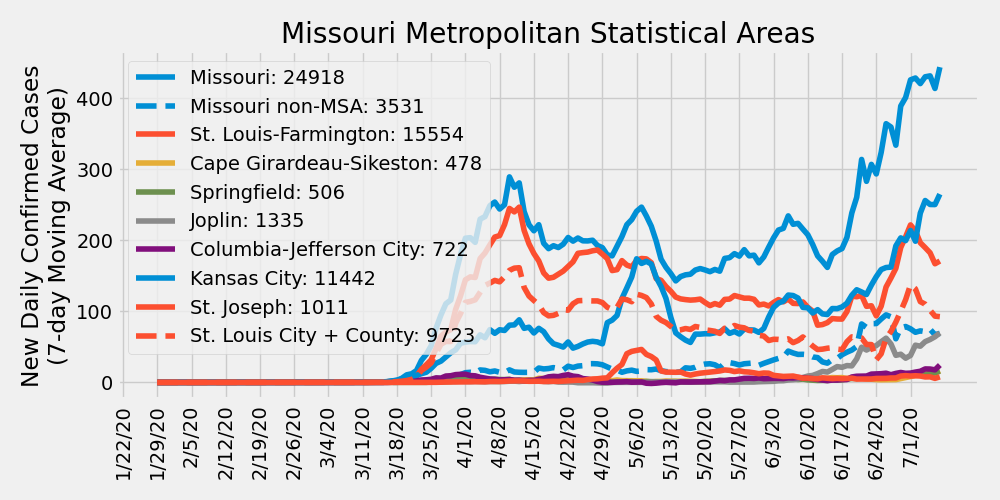
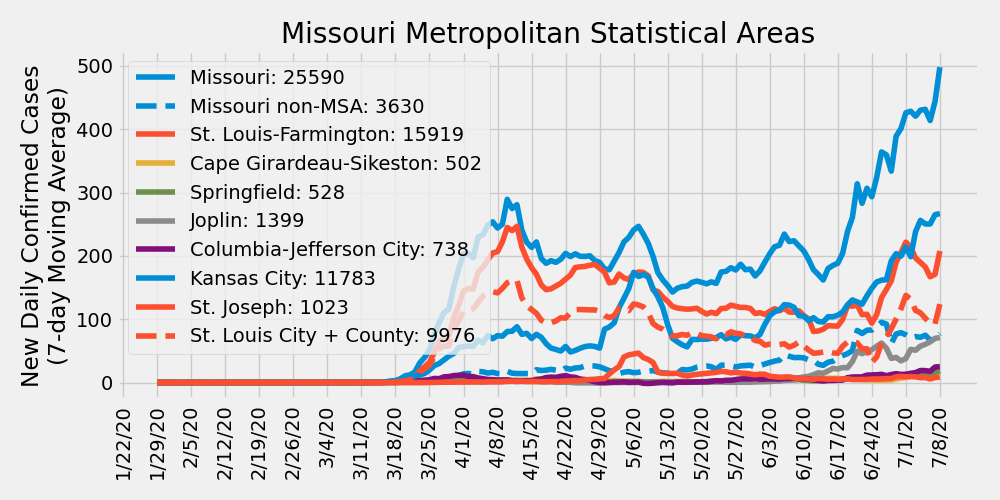
update 7/9/2020

diff --git a/ajvogt-analysis/missouri_analysis.md b/ajvogt-analysis/missouri_analysis.md
@@ -1,6 +1,6 @@
 # COVID-19 Missouri Statistics & Regional Breakdowns
 Author: Adam J. Vogt  
-Updated: 07/08/2020  
+Updated: 07/09/2020  
 Source: [COVID-19 Data Repository by the Center for Systems Science and Engineering (CSSE) at Johns Hopkins University](https://github.com/CSSEGISandData/COVID-19)  
 Source Code: `/ajvogt-analysis/mo_analysis_script.py`  
 Release Notes: [release_notes.md](https://github.com/ajvogt/COVID-19/blob/master/ajvogt-analysis/release_notes.md)
@@ -27,129 +27,129 @@ Legend shows cumulative confirmed cases
 ## Metropolitan Statistical Area (MSA) Counties
 | MSA | State | County | Total Cases | Total Deaths |
 |-----|-------|--------|---|---|
-| St. Louis-Farmington | Missouri | Lincoln | 105 | 1 |
-| St. Louis-Farmington | Missouri | Warren | 54 | 0 |
-| St. Louis-Farmington | Missouri | Franklin | 231 | 18 |
-| St. Louis-Farmington | Missouri | Jefferson | 514 | 22 |
-| St. Louis-Farmington | Missouri | St. Charles | 1167 | 75 |
-| St. Louis-Farmington | Missouri | St. Louis | 7066 | 593 |
-| St. Louis-Farmington | Missouri | St. Louis City | 2657 | 158 |
+| St. Louis-Farmington | Missouri | Lincoln | 106 | 1 |
+| St. Louis-Farmington | Missouri | Warren | 53 | 0 |
+| St. Louis-Farmington | Missouri | Franklin | 235 | 18 |
+| St. Louis-Farmington | Missouri | Jefferson | 527 | 22 |
+| St. Louis-Farmington | Missouri | St. Charles | 1197 | 75 |
+| St. Louis-Farmington | Missouri | St. Louis | 7284 | 593 |
+| St. Louis-Farmington | Missouri | St. Louis City | 2692 | 158 |
 | St. Louis-Farmington | Missouri | St. Francois | 158 | 2 |
-| St. Louis-Farmington | Illinois | Monroe | 137 | 13 |
-| St. Louis-Farmington | Illinois | St. Clair | 2054 | 138 |
-| St. Louis-Farmington | Illinois | Madison | 1054 | 70 |
-| St. Louis-Farmington | Illinois | Macoupin | 60 | 3 |
-| St. Louis-Farmington | Illinois | Jersey | 36 | 1 |
-| St. Louis-Farmington | Illinois | Clinton | 243 | 17 |
+| St. Louis-Farmington | Illinois | Monroe | 141 | 13 |
+| St. Louis-Farmington | Illinois | St. Clair | 2089 | 143 |
+| St. Louis-Farmington | Illinois | Madison | 1077 | 70 |
+| St. Louis-Farmington | Illinois | Macoupin | 61 | 3 |
+| St. Louis-Farmington | Illinois | Jersey | 37 | 1 |
+| St. Louis-Farmington | Illinois | Clinton | 244 | 17 |
 | St. Louis-Farmington | Illinois | Calhoun | 1 | 0 |
 | St. Louis-Farmington | Illinois | Bond | 17 | 1 |
-| Cape Girardeau-Sikeston | Missouri | Cape Girardeau | 252 | 3 |
-| Cape Girardeau-Sikeston | Missouri | Bollinger | 16 | 0 |
+| Cape Girardeau-Sikeston | Missouri | Cape Girardeau | 271 | 3 |
+| Cape Girardeau-Sikeston | Missouri | Bollinger | 18 | 0 |
 | Cape Girardeau-Sikeston | Illinois | Alexander | 22 | 0 |
-| Cape Girardeau-Sikeston | Missouri | Scott | 188 | 11 |
-| Springfield | Missouri | Greene | 373 | 8 |
-| Springfield | Missouri | Christian | 54 | 1 |
-| Springfield | Missouri | Webster | 48 | 1 |
-| Springfield | Missouri | Polk | 16 | 0 |
-| Springfield | Missouri | Dallas | 15 | 1 |
-| Joplin | Missouri | Jasper | 833 | 7 |
-| Joplin | Missouri | Newton | 502 | 2 |
+| Cape Girardeau-Sikeston | Missouri | Scott | 191 | 11 |
+| Springfield | Missouri | Greene | 385 | 8 |
+| Springfield | Missouri | Christian | 64 | 1 |
+| Springfield | Missouri | Webster | 46 | 1 |
+| Springfield | Missouri | Polk | 17 | 0 |
+| Springfield | Missouri | Dallas | 16 | 1 |
+| Joplin | Missouri | Jasper | 881 | 7 |
+| Joplin | Missouri | Newton | 518 | 2 |
 | Columbia-Jefferson City | Missouri | Howard | 5 | 0 |
-| Columbia-Jefferson City | Missouri | Boone | 464 | 2 |
+| Columbia-Jefferson City | Missouri | Boone | 477 | 2 |
 | Columbia-Jefferson City | Missouri | Cooper | 23 | 0 |
-| Columbia-Jefferson City | Missouri | Moniteau | 65 | 1 |
-| Columbia-Jefferson City | Missouri | Cole | 94 | 2 |
+| Columbia-Jefferson City | Missouri | Moniteau | 66 | 1 |
+| Columbia-Jefferson City | Missouri | Cole | 95 | 2 |
 | Columbia-Jefferson City | Missouri | Callaway | 61 | 1 |
-| Columbia-Jefferson City | Missouri | Osage | 10 | 0 |
-| Kansas City | Missouri | Kansas City | 2814 | 31 |
-| Kansas City | Missouri | Jackson | 1397 | 42 |
-| Kansas City | Missouri | Clay | 510 | 12 |
-| Kansas City | Missouri | Cass | 169 | 8 |
-| Kansas City | Missouri | Platte | 135 | 6 |
-| Kansas City | Missouri | Lafayette | 94 | 2 |
-| Kansas City | Missouri | Ray | 29 | 0 |
-| Kansas City | Missouri | Clinton | 29 | 0 |
+| Columbia-Jefferson City | Missouri | Osage | 11 | 0 |
+| Kansas City | Missouri | Kansas City | 2870 | 31 |
+| Kansas City | Missouri | Jackson | 1438 | 42 |
+| Kansas City | Missouri | Clay | 526 | 13 |
+| Kansas City | Missouri | Cass | 178 | 8 |
+| Kansas City | Missouri | Platte | 139 | 6 |
+| Kansas City | Missouri | Lafayette | 97 | 2 |
+| Kansas City | Missouri | Ray | 30 | 0 |
+| Kansas City | Missouri | Clinton | 31 | 0 |
 | Kansas City | Missouri | Bates | 12 | 1 |
 | Kansas City | Missouri | Caldwell | 12 | 0 |
-| Kansas City | Kansas | Johnson | 2356 | 91 |
-| Kansas City | Kansas | Wyandotte | 2635 | 85 |
-| Kansas City | Kansas | Leavenworth | 1192 | 7 |
-| Kansas City | Kansas | Miami | 42 | 0 |
-| Kansas City | Kansas | Linn | 16 | 0 |
+| Kansas City | Kansas | Johnson | 2491 | 91 |
+| Kansas City | Kansas | Wyandotte | 2700 | 85 |
+| Kansas City | Kansas | Leavenworth | 1196 | 7 |
+| Kansas City | Kansas | Miami | 48 | 0 |
+| Kansas City | Kansas | Linn | 15 | 0 |
 | St. Joseph | Missouri | Andrew | 59 | 0 |
-| St. Joseph | Missouri | Buchanan | 911 | 4 |
+| St. Joseph | Missouri | Buchanan | 923 | 4 |
 | St. Joseph | Missouri | DeKalb | 15 | 0 |
 | St. Joseph | Kansas | Doniphan | 26 | 0 |
-| Missouri non-MSA | Missouri | Adair |  95 | 0 |
+| Missouri non-MSA | Missouri | Adair |  98 | 0 |
 | Missouri non-MSA | Missouri | Atchison |  6 | 0 |
-| Missouri non-MSA | Missouri | Audrain |  139 | 1 |
-| Missouri non-MSA | Missouri | Barry |  81 | 0 |
-| Missouri non-MSA | Missouri | Barton |  30 | 0 |
+| Missouri non-MSA | Missouri | Audrain |  142 | 1 |
+| Missouri non-MSA | Missouri | Barry |  86 | 0 |
+| Missouri non-MSA | Missouri | Barton |  31 | 0 |
 | Missouri non-MSA | Missouri | Benton |  20 | 0 |
 | Missouri non-MSA | Missouri | Butler |  111 | 0 |
-| Missouri non-MSA | Missouri | Camden |  74 | 1 |
+| Missouri non-MSA | Missouri | Camden |  76 | 2 |
 | Missouri non-MSA | Missouri | Carroll |  20 | 0 |
 | Missouri non-MSA | Missouri | Carter |  6 | 1 |
 | Missouri non-MSA | Missouri | Cedar |  12 | 0 |
 | Missouri non-MSA | Missouri | Chariton |  6 | 0 |
 | Missouri non-MSA | Missouri | Clark |  2 | 0 |
-| Missouri non-MSA | Missouri | Crawford |  18 | 0 |
+| Missouri non-MSA | Missouri | Crawford |  19 | 0 |
 | Missouri non-MSA | Missouri | Dade |  1 | 0 |
 | Missouri non-MSA | Missouri | Daviess |  10 | 0 |
 | Missouri non-MSA | Missouri | Dent |  5 | 0 |
 | Missouri non-MSA | Missouri | Douglas |  6 | 0 |
-| Missouri non-MSA | Missouri | Dunklin |  116 | 3 |
-| Missouri non-MSA | Missouri | Gasconade |  12 | 0 |
+| Missouri non-MSA | Missouri | Dunklin |  115 | 3 |
+| Missouri non-MSA | Missouri | Gasconade |  13 | 0 |
 | Missouri non-MSA | Missouri | Gentry |  63 | 9 |
 | Missouri non-MSA | Missouri | Grundy |  20 | 1 |
-| Missouri non-MSA | Missouri | Harrison |  19 | 0 |
+| Missouri non-MSA | Missouri | Harrison |  21 | 0 |
 | Missouri non-MSA | Missouri | Henry |  20 | 3 |
-| Missouri non-MSA | Missouri | Hickory |  0 | 0 |
+| Missouri non-MSA | Missouri | Hickory |  1 | 0 |
 | Missouri non-MSA | Missouri | Holt |  1 | 0 |
 | Missouri non-MSA | Missouri | Howell |  44 | 0 |
 | Missouri non-MSA | Missouri | Iron |  3 | 0 |
 | Missouri non-MSA | Missouri | Knox |  2 | 0 |
-| Missouri non-MSA | Missouri | Laclede |  57 | 0 |
-| Missouri non-MSA | Missouri | Lawrence |  48 | 1 |
+| Missouri non-MSA | Missouri | Laclede |  70 | 0 |
+| Missouri non-MSA | Missouri | Lawrence |  52 | 1 |
 | Missouri non-MSA | Missouri | Lewis |  8 | 1 |
 | Missouri non-MSA | Missouri | Livingston |  21 | 0 |
-| Missouri non-MSA | Missouri | McDonald |  652 | 1 |
-| Missouri non-MSA | Missouri | Macon |  10 | 0 |
+| Missouri non-MSA | Missouri | McDonald |  670 | 1 |
+| Missouri non-MSA | Missouri | Macon |  15 | 0 |
 | Missouri non-MSA | Missouri | Maries |  6 | 0 |
-| Missouri non-MSA | Missouri | Marion |  26 | 0 |
+| Missouri non-MSA | Missouri | Marion |  27 | 0 |
 | Missouri non-MSA | Missouri | Mercer |  6 | 0 |
-| Missouri non-MSA | Missouri | Miller |  20 | 0 |
+| Missouri non-MSA | Missouri | Miller |  22 | 0 |
 | Missouri non-MSA | Missouri | Mississippi |  95 | 0 |
 | Missouri non-MSA | Missouri | Montgomery |  21 | 0 |
-| Missouri non-MSA | Missouri | Morgan |  22 | 0 |
-| Missouri non-MSA | Missouri | New Madrid |  45 | 1 |
+| Missouri non-MSA | Missouri | Morgan |  26 | 0 |
+| Missouri non-MSA | Missouri | New Madrid |  46 | 1 |
 | Missouri non-MSA | Missouri | Nodaway |  24 | 0 |
-| Missouri non-MSA | Missouri | Oregon |  8 | 0 |
+| Missouri non-MSA | Missouri | Oregon |  9 | 0 |
 | Missouri non-MSA | Missouri | Ozark |  2 | 0 |
-| Missouri non-MSA | Missouri | Pemiscot |  114 | 6 |
-| Missouri non-MSA | Missouri | Perry |  163 | 1 |
-| Missouri non-MSA | Missouri | Pettis |  136 | 1 |
-| Missouri non-MSA | Missouri | Phelps |  48 | 0 |
+| Missouri non-MSA | Missouri | Pemiscot |  115 | 6 |
+| Missouri non-MSA | Missouri | Perry |  164 | 1 |
+| Missouri non-MSA | Missouri | Pettis |  139 | 1 |
+| Missouri non-MSA | Missouri | Phelps |  51 | 0 |
 | Missouri non-MSA | Missouri | Pike |  37 | 1 |
-| Missouri non-MSA | Missouri | Pulaski |  130 | 1 |
+| Missouri non-MSA | Missouri | Pulaski |  134 | 1 |
 | Missouri non-MSA | Missouri | Putnam |  4 | 0 |
 | Missouri non-MSA | Missouri | Ralls |  10 | 0 |
-| Missouri non-MSA | Missouri | Randolph |  13 | 0 |
+| Missouri non-MSA | Missouri | Randolph |  14 | 0 |
 | Missouri non-MSA | Missouri | Reynolds |  2 | 0 |
-| Missouri non-MSA | Missouri | Ripley |  19 | 0 |
+| Missouri non-MSA | Missouri | Ripley |  20 | 0 |
 | Missouri non-MSA | Missouri | Ste. Genevieve |  22 | 1 |
-| Missouri non-MSA | Missouri | Saline |  290 | 4 |
+| Missouri non-MSA | Missouri | Saline |  295 | 4 |
 | Missouri non-MSA | Missouri | Schuyler |  5 | 0 |
 | Missouri non-MSA | Missouri | Scotland |  11 | 1 |
-| Missouri non-MSA | Missouri | Shannon |  22 | 0 |
+| Missouri non-MSA | Missouri | Shannon |  23 | 0 |
 | Missouri non-MSA | Missouri | Shelby |  4 | 0 |
-| Missouri non-MSA | Missouri | Stoddard |  146 | 9 |
-| Missouri non-MSA | Missouri | Stone |  19 | 0 |
-| Missouri non-MSA | Missouri | Sullivan |  119 | 0 |
-| Missouri non-MSA | Missouri | Taney |  105 | 2 |
+| Missouri non-MSA | Missouri | Stoddard |  148 | 9 |
+| Missouri non-MSA | Missouri | Stone |  21 | 0 |
+| Missouri non-MSA | Missouri | Sullivan |  118 | 0 |
+| Missouri non-MSA | Missouri | Taney |  112 | 2 |
 | Missouri non-MSA | Missouri | Texas |  9 | 0 |
 | Missouri non-MSA | Missouri | Vernon |  26 | 0 |
-| Missouri non-MSA | Missouri | Washington |  25 | 1 |
+| Missouri non-MSA | Missouri | Washington |  26 | 1 |
 | Missouri non-MSA | Missouri | Wayne |  5 | 0 |
 | Missouri non-MSA | Missouri | Worth |  4 | 0 |
-| Missouri non-MSA | Missouri | Wright |  29 | 0 |
+| Missouri non-MSA | Missouri | Wright |  30 | 0 |
